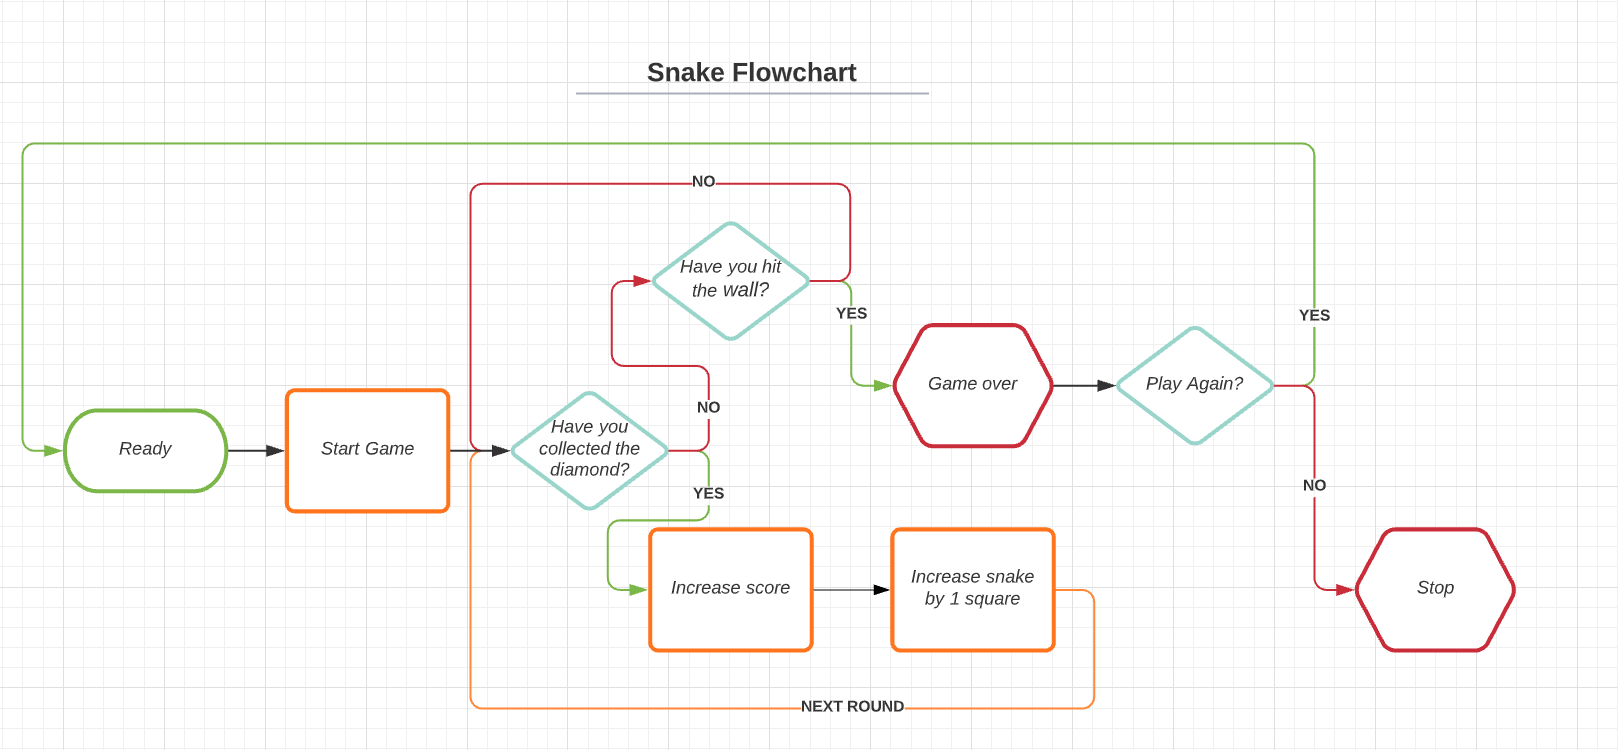
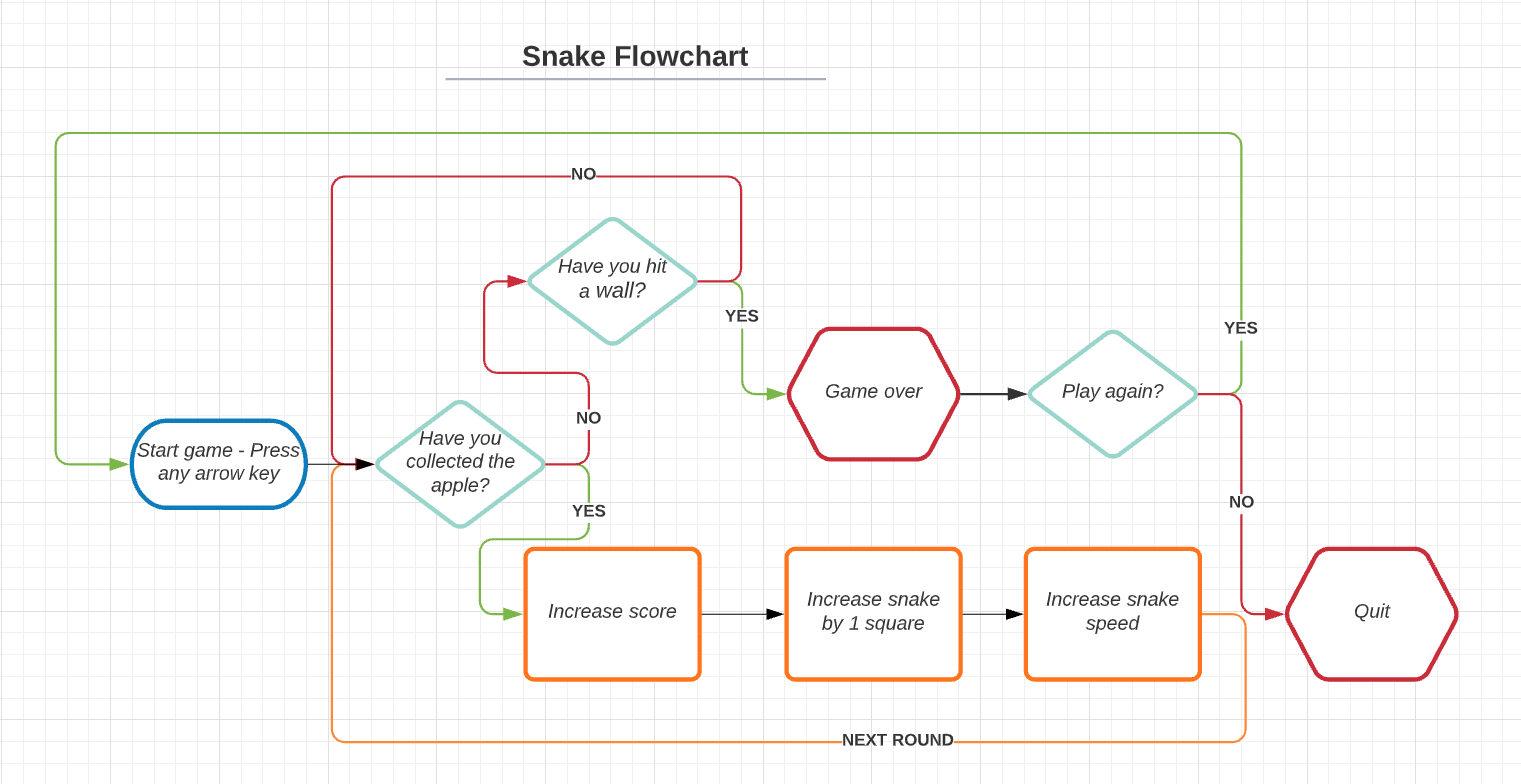
user stories feedback added to readme file and lucid chart updated to include speed increase.

diff --git a/README.md b/README.md
@@ -24,8 +24,13 @@ Screenshot of game here.
 
 - #### Colour Scheme
 - The snake board is set on a dark chequered background #202937 - RGB (38,52,69) #263445 - RGB (32,41,55).
+- A bright green is used to show the snake - #009f00 - RGB (0, 159, 0)
+- A dark red is used to represent the apple - #c80000 - RGB (200, 0, 0)
+- White is used to show the live score.
+- Game over interface is a simple black screen and white text.
 - #### Typography
-- One typeface is used to show the scoreboard (Monotype). This is used as it brings an arcade like feel but is clear to read, especially when in white on the dark chequered background.
+- One typeface is used to show the scoreboard (Courier). This is used as it brings an arcade like feel but is clear to read, especially when in white on the dark chequered background.
+- The "play again" message shown when the game is over is displayed in Helvetica.
 
 ### Flowchart
 
@@ -42,15 +47,19 @@ Below is a brief overview showing the main features of the game.
 
 ### Growing snake
 
-- placeholder
+- This is a sterotypical feature of the game and Snake and works in the exact same way. As the snake collects and eats the apple the snake body increases by one square making each level more and more challenging in terms of avoid crashing into any part of the snake.
 
 ### Increasing speed
 
-- placeholder
+- The normal mobile features continue and not only does the snake increase in size but the speed of which the snake moves around the board increases too.
 
 ### Scoreboard
 
-- placeholder
+- When the snake has eaten the apple the score increases by 10 points.
+
+### Play again
+
+- Eventually when your turn is over, you have the option to play again or quit. If the user selects play again (Y) the score is reset to 0 and the snake size and speed is back to the default.
 
 ## Future Features
 
@@ -83,9 +92,7 @@ ALL TO BE REPLACED BELOW
 
 The W3C Markup Validator and W3C CSS Validator Services were used to ensure there were no syntax errors in the project.
 
-- [W3C Markup Validator](https://jigsaw.w3.org/css-validator/#validate_by_input) - [Results](https://validator.w3.org/nu/?doc=https%3A%2F%2Fliamsmith3194.github.io%2Fpython-in-python%2F)
-- [W3C CSS Validator](https://jigsaw.w3.org/css-validator/#validate_by_input) - [Results](https://jigsaw.w3.org/css-validator/validator?uri=https%3A%2F%2Fliamsmith3194.github.io%2Fpython-in-python)
-- [Jshint JavaScript linter](https://jshint.com/) - 26 warnings, the mast majority:
+- [Python linter](https://jshint.com/) - 26 warnings, the mast majority:
     -   'let' is available in ES6 (use 'esversion: 6') or Mozilla JS extensions (use moz).
     -   'template literal syntax' is only available in ES6 (use 'esversion: 6'.
 
@@ -95,19 +102,20 @@ The W3C Markup Validator and W3C CSS Validator Services were used to ensure ther
 
 Q1. As a first time visitor, I want a clear understand of the objective of game.
 
-- A large majority of the world's population have played or understand how Rock, Paper Scissors is played. As soon as users enter the site, it is abundantly clear what the game is and how to play it. The default icons on show increase the clarity.
+- Since Snake was created in the late 90's it has appeared on over 400 million mobile phones. There were no hesitation from the users playing this game.
 
 Q2. As a first time visitor, I want the controls to be as simple of possible.
 
-- The rules are very clear to see, labelled up beneath the interactive buttons. "ROCK BEATS SCISSORS" etc.
+- It doesn't get much easier than up, down, left and right.
 
 Q3. As a first time visitor, I want to have live scoring.
 
-- Round by round after the alert message of the outcome, the round number is updated along with the tally of rounds won, rounds drawn or rounds lost, all looking from the user's perspective.
+- The way the scoreboard is presented is easy to read even while concentrating on the game. The white makes it stands out from the grid and the Courier typeface give it a more "gamey" feel rather than uses something standard like Arial for example.
+- Keeping the score on the screen when the game is over is important as it's not alway possible to look at the score while playing the game especially as the speed increases.
 
 Q4. As a first time visitor, I want to enjoy the game and come back again and again.
 
-- The way the game is run is so easy to play and understand. I have found myself saying "one more round" constantly, just to finish with a win and beat the computer.
+- It's a classic game recreated and brought up to date. It was really addictive just like the mobile version was years ago.
 
 ### Continued Testing
 
@@ -121,7 +129,7 @@ Q4. As a first time visitor, I want to enjoy the game and come back again and ag
 
 ### Heroku
 
-GitHub was the program used to deploy the site, it was accomplished by using the following steps:
+Heroku was the program used to deploy the site, it was accomplished by using the following steps:
 
 REPLACE !!!!
 
